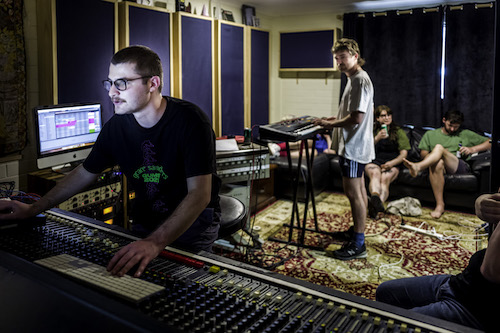
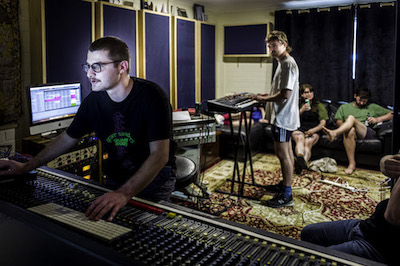
Add files via upload

diff --git a/recording-mixing.html b/recording-mixing.html
@@ -60,8 +60,8 @@
     <h1><a href="index.html">Jeremy Segal</a></h1>
     <h2><a href="https://jeremysegal.bandcamp.com/" target="_blank" rel="noopener noreferrer"><span style="font-size: 18px;font-weight:normal;padding:20px">composition</span></a><a href="recording-mixing.html"><span style="font-size: 18px;font-weight:normal;padding:20px">Recording & Mixing</span></a></h2>
     <h2><a href="bands-collaborations.html"><span style="font-size: 18px;font-weight:normal;padding:20px">Bands & Collaborations</span></a><a href="bio.html"><span style="font-size: 18px;font-weight:normal;padding:20px">bio</span></a></h2>
-    <div style="color:black; ;margin-top:5px"><img src="Tunafish_Alun_1.jpg" style="width: 27%; border-style: solid;border-width: 1px" alt="Jeremy Segal working at Tunafish Recording Company. Photo by Alun Bartsch."></div>
-    <p class="body" style="font-weight:bold;text-transform: uppercase;">Selected Discography</p>
+    <div style="color:black; ;margin-top:5px"><img src="Tunafish_Alun_1.jpg" style="max-width: 100%;" alt="Jeremy Segal working at Tunafish Recording Company. Photo by Alun Bartsch."></div>
+    <p class="body" style="font-weight:bold;text-transform: uppercase; padding-top: 6px;">Selected Discography</p>
     <div class="bodywide">
         <a href="https://didionsbible.bandcamp.com/album/faster-than-you-think" target="_blank" rel="noopner noreferrer">Didion's Bible - Faster Than You Think (recording, mixing)</a>
         <br>
